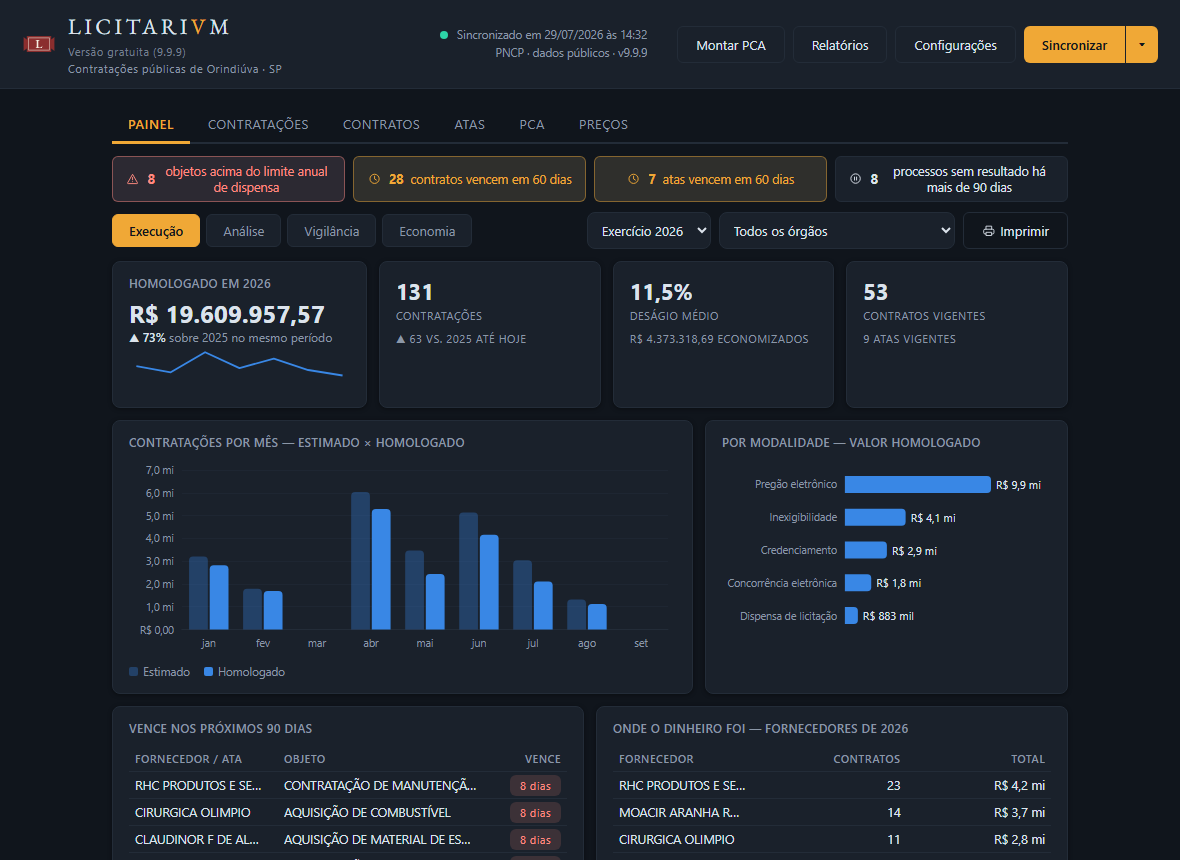
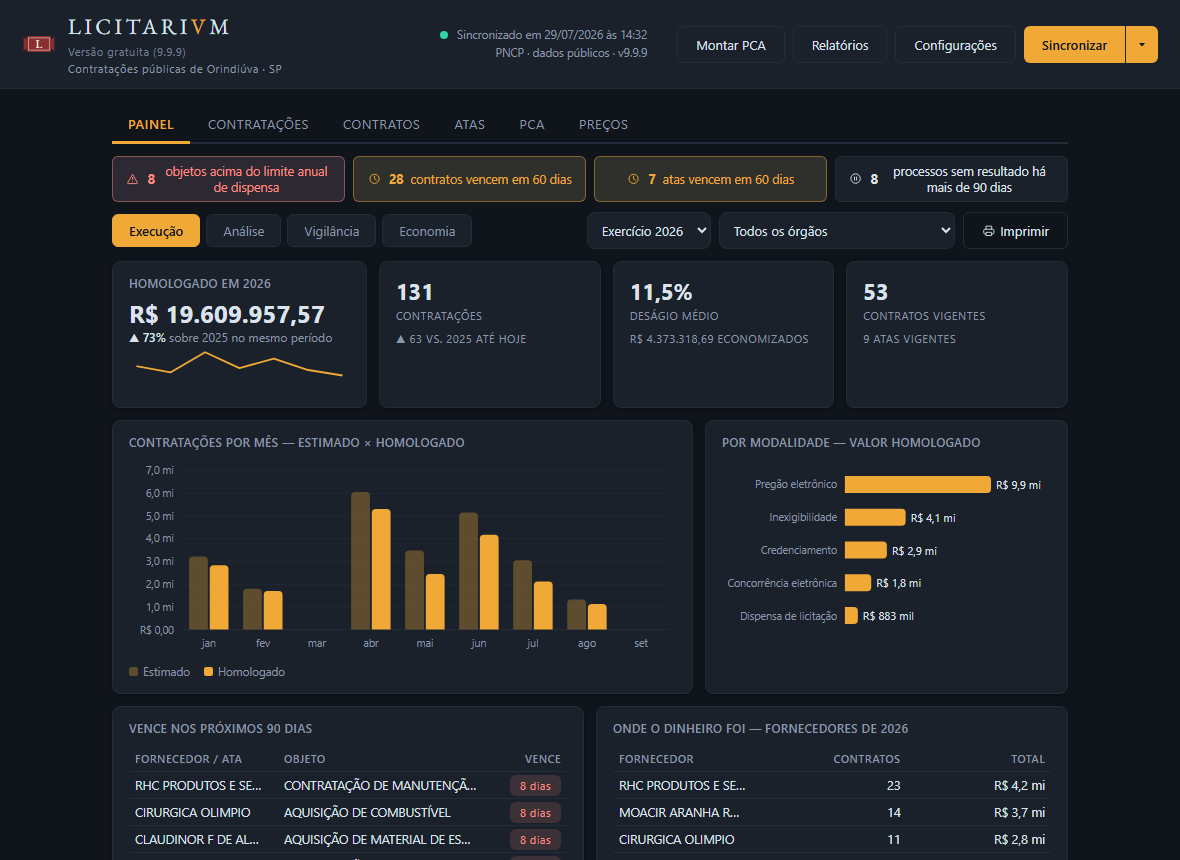
feat: cor de série dos gráficos (--s1) unificada com --accent do tema (v1.52.6)
--s1 tinha tom próprio por tema (pensado só pra daltonismo/contraste),
independente de --accent (cor de destaque da interface). Em 3 dos 4
temas coincidiam por acaso; no Observatório não (série azul, destaque
em âmbar), deixando o mesmo gráfico visualmente fora do tema. --s1
agora é sempre var(--accent), nos 4 temas -- pedido do usuário.
--s2..--s4 (séries secundárias) continuam com tom próprio.

diff --git a/MANUAL.html b/MANUAL.html
@@ -2,11 +2,11 @@
 <html lang="pt-BR">
 <head>
 <meta charset="utf-8">
-<title>Manual Operacional — Licitarium Free v1.52.5</title>
+<title>Manual Operacional — Licitarium Free v1.52.6</title>
 <style>
   @page {
     size: A4; margin: 2cm 1.8cm;
-    @top-center { content: "Licitarium Free v1.52.5 — Manual Operacional"; font-size: 9pt; color: #6f5b3e; }
+    @top-center { content: "Licitarium Free v1.52.6 — Manual Operacional"; font-size: 9pt; color: #6f5b3e; }
     @bottom-right { content: "Página " counter(page) " de " counter(pages);
                     font-size: 9pt; color: #6f5b3e; }
   }
@@ -155,7 +155,7 @@
     <path d="M21.22 61.67Q21.16 61.67 21.12 61.65Q21.09 61.64 21.09 61.61Q21.09 61.58 21.13 61.56Q21.17 61.54 21.23 61.53Q21.35 61.5 21.42 61.41Q21.5 61.32 21.52 61.17Q21.57 60.82 21.61 60.47Q21.64 60.11 21.67 59.79Q21.7 59.47 21.71 59.22Q21.71 59.19 21.71 59.14Q21.71 59.1 21.71 59.06Q21.7 59.01 21.69 58.97Q21.67 58.93 21.62 58.89Q21.55 58.83 21.47 58.81Q21.4 58.78 21.3 58.76Q21.26 58.75 21.23 58.73Q21.2 58.7 21.2 58.67Q21.2 58.63 21.24 58.62Q21.28 58.61 21.34 58.61Q21.4 58.61 21.49 58.61Q21.59 58.62 21.71 58.63Q21.82 58.63 21.93 58.64Q22.03 58.64 22.1 58.64Q22.14 58.64 22.16 58.66Q22.19 58.69 22.2 58.72Q22.22 58.81 22.25 58.89Q22.27 58.98 22.31 59.07L23.02 60.84Q23.03 60.87 23.06 60.88Q23.09 60.88 23.11 60.85L23.93 59.08Q23.96 58.98 23.98 58.88Q24 58.78 24.02 58.71Q24.03 58.65 24.07 58.65H24.25Q24.41 58.64 24.59 58.63Q24.76 58.61 24.85 58.61Q24.89 58.61 24.92 58.62Q24.96 58.63 24.96 58.66Q24.96 58.7 24.93 58.71Q24.9 58.73 24.84 58.76Q24.79 58.77 24.73 58.8Q24.67 58.82 24.62 58.84Q24.55 58.88 24.51 58.93Q24.46 58.98 24.47 59.07Q24.47 59.4 24.48 59.67Q24.5 59.94 24.51 60.19Q24.52 60.43 24.54 60.68Q24.56 60.93 24.57 61.2Q24.58 61.34 24.67 61.41Q24.75 61.49 24.92 61.52Q24.98 61.54 25.02 61.56Q25.05 61.57 25.05 61.61Q25.05 61.64 25.02 61.65Q24.99 61.67 24.93 61.67Q24.82 61.67 24.72 61.66Q24.62 61.65 24.53 61.65Q24.43 61.64 24.33 61.64Q24.24 61.64 24.16 61.65Q24.08 61.65 23.99 61.66Q23.9 61.67 23.78 61.67Q23.73 61.67 23.7 61.65Q23.66 61.64 23.66 61.61Q23.66 61.58 23.7 61.55Q23.73 61.53 23.8 61.52Q23.95 61.5 24 61.43Q24.06 61.36 24.06 61.2Q24.05 60.88 24.04 60.61Q24.04 60.34 24.02 60.07Q24.01 59.8 24 59.51Q23.99 59.46 23.97 59.47Q23.95 59.47 23.93 59.51L22.93 61.66Q22.92 61.7 22.88 61.7Q22.84 61.69 22.83 61.66Q22.63 61.12 22.41 60.59Q22.19 60.07 21.95 59.5Q21.94 59.47 21.91 59.47Q21.89 59.47 21.88 59.51Q21.85 59.8 21.83 60.07Q21.8 60.34 21.79 60.61Q21.78 60.88 21.78 61.17Q21.78 61.3 21.86 61.39Q21.94 61.49 22.09 61.52Q22.16 61.54 22.2 61.55Q22.24 61.57 22.24 61.61Q22.24 61.64 22.2 61.65Q22.16 61.67 22.11 61.67Q21.99 61.67 21.92 61.66Q21.86 61.65 21.81 61.65Q21.75 61.65 21.66 61.65Q21.57 61.65 21.51 61.65Q21.44 61.66 21.37 61.66Q21.3 61.67 21.22 61.67ZM25.84 61.67Q25.78 61.67 25.75 61.65Q25.72 61.64 25.72 61.61Q25.72 61.58 25.75 61.56Q25.79 61.54 25.86 61.53Q25.97 61.5 26.05 61.41Q26.13 61.32 26.15 61.17Q26.19 60.82 26.23 60.47Q26.27 60.11 26.3 59.79Q26.32 59.47 26.33 59.22Q26.34 59.19 26.34 59.14Q26.34 59.1 26.33 59.06Q26.33 59.01 26.31 58.97Q26.3 58.93 26.25 58.89Q26.17 58.83 26.1 58.81Q26.03 58.78 25.93 58.76Q25.88 58.75 25.85 58.73Q25.82 58.7 25.82 58.67Q25.82 58.63 25.86 58.62Q25.91 58.61 25.97 58.61Q26.02 58.61 26.12 58.61Q26.22 58.62 26.33 58.63Q26.45 58.63 26.56 58.64Q26.66 58.64 26.73 58.64Q26.76 58.64 26.79 58.66Q26.82 58.69 26.82 58.72Q26.85 58.81 26.88 58.89Q26.9 58.98 26.93 59.07L27.65 60.84Q27.66 60.87 27.69 60.88Q27.72 60.88 27.73 60.85L28.56 59.08Q28.58 58.98 28.61 58.88Q28.63 58.78 28.64 58.71Q28.66 58.65 28.7 58.65H28.88Q29.04 58.64 29.21 58.63Q29.39 58.61 29.48 58.61Q29.51 58.61 29.55 58.62Q29.59 58.63 29.59 58.66Q29.59 58.7 29.56 58.71Q29.53 58.73 29.47 58.76Q29.42 58.77 29.36 58.8Q29.3 58.82 29.25 58.84Q29.17 58.88 29.13 58.93Q29.09 58.98 29.09 59.07Q29.1 59.4 29.11 59.67Q29.12 59.94 29.14 60.19Q29.15 60.43 29.17 60.68Q29.18 60.93 29.2 61.2Q29.21 61.34 29.3 61.41Q29.38 61.49 29.54 61.52Q29.61 61.54 29.65 61.56Q29.68 61.57 29.68 61.61Q29.68 61.64 29.65 61.65Q29.61 61.67 29.56 61.67Q29.44 61.67 29.34 61.66Q29.25 61.65 29.15 61.65Q29.06 61.64 28.96 61.64Q28.87 61.64 28.79 61.65Q28.71 61.65 28.62 61.66Q28.53 61.67 28.41 61.67Q28.36 61.67 28.32 61.65Q28.29 61.64 28.29 61.61Q28.29 61.58 28.32 61.55Q28.36 61.53 28.43 61.52Q28.57 61.5 28.63 61.43Q28.68 61.36 28.68 61.2Q28.68 60.88 28.67 60.61Q28.66 60.34 28.65 60.07Q28.64 59.8 28.63 59.51Q28.62 59.46 28.6 59.47Q28.58 59.47 28.56 59.51L27.56 61.66Q27.55 61.7 27.51 61.7Q27.47 61.69 27.46 61.66Q27.26 61.12 27.04 60.59Q26.82 60.07 26.58 59.5Q26.57 59.47 26.54 59.47Q26.52 59.47 26.51 59.51Q26.48 59.8 26.45 60.07Q26.43 60.34 26.42 60.61Q26.41 60.88 26.41 61.17Q26.41 61.3 26.49 61.39Q26.57 61.49 26.72 61.52Q26.79 61.54 26.83 61.55Q26.87 61.57 26.87 61.61Q26.87 61.64 26.83 61.65Q26.79 61.67 26.74 61.67Q26.61 61.67 26.55 61.66Q26.48 61.65 26.43 61.65Q26.38 61.65 26.29 61.65Q26.2 61.65 26.13 61.65Q26.07 61.66 26 61.66Q25.93 61.67 25.84 61.67ZM30.37 61.67Q30.31 61.67 30.27 61.66Q30.23 61.65 30.23 61.61Q30.23 61.58 30.27 61.56Q30.31 61.54 30.37 61.51Q30.46 61.49 30.57 61.44Q30.67 61.38 30.79 61.29Q30.9 61.2 31 61.07L31.58 60.35Q31.63 60.28 31.64 60.21Q31.66 60.14 31.59 60.05L30.96 59.16Q30.86 59.03 30.79 58.95Q30.71 58.87 30.63 58.83Q30.56 58.8 30.48 58.77Q30.41 58.75 30.37 58.73Q30.34 58.71 30.34 58.67Q30.34 58.64 30.37 58.63Q30.41 58.62 30.46 58.62Q30.61 58.62 30.81 58.63Q31.01 58.64 31.2 58.64Q31.34 58.64 31.47 58.63Q31.61 58.62 31.7 58.62Q31.75 58.62 31.79 58.64Q31.83 58.65 31.83 58.68Q31.83 58.72 31.79 58.74Q31.75 58.76 31.69 58.78Q31.56 58.81 31.5 58.84Q31.44 58.87 31.44 58.93Q31.44 59 31.56 59.18L31.99 59.77Q32.04 59.84 32.07 59.84Q32.1 59.84 32.14 59.78L32.59 59.18Q32.65 59.1 32.68 59.04Q32.71 58.98 32.71 58.93Q32.71 58.88 32.66 58.84Q32.61 58.8 32.5 58.78Q32.46 58.77 32.4 58.74Q32.35 58.72 32.35 58.68Q32.35 58.65 32.39 58.64Q32.43 58.63 32.49 58.63Q32.56 58.63 32.62 58.63Q32.68 58.63 32.74 58.63Q32.81 58.64 32.88 58.64Q33.02 58.64 33.15 58.62Q33.28 58.61 33.39 58.61Q33.45 58.61 33.49 58.62Q33.53 58.63 33.53 58.67Q33.53 58.7 33.49 58.72Q33.45 58.74 33.38 58.76Q33.26 58.79 33.12 58.93Q32.97 59.06 32.85 59.21L32.28 59.9Q32.22 59.97 32.21 60.01Q32.2 60.04 32.23 60.1L32.97 61.16Q33.06 61.29 33.18 61.39Q33.29 61.48 33.41 61.51Q33.48 61.53 33.52 61.55Q33.57 61.58 33.57 61.61Q33.57 61.64 33.53 61.66Q33.49 61.67 33.44 61.67Q33.33 61.67 33.21 61.66Q33.08 61.66 32.94 61.65Q32.81 61.64 32.69 61.64Q32.55 61.64 32.42 61.65Q32.29 61.65 32.19 61.65Q32.13 61.65 32.09 61.64Q32.05 61.62 32.05 61.59Q32.05 61.56 32.1 61.53Q32.15 61.51 32.2 61.5Q32.28 61.48 32.35 61.43Q32.42 61.38 32.42 61.29Q32.42 61.26 32.41 61.23Q32.4 61.19 32.37 61.16L31.89 60.45Q31.84 60.39 31.81 60.38Q31.78 60.38 31.75 60.43L31.19 61.17Q31.16 61.22 31.14 61.26Q31.13 61.3 31.13 61.33Q31.14 61.39 31.19 61.44Q31.25 61.49 31.34 61.51Q31.41 61.52 31.45 61.54Q31.49 61.57 31.49 61.6Q31.49 61.63 31.45 61.64Q31.42 61.66 31.36 61.66Q31.27 61.66 31.15 61.65Q31.03 61.65 30.92 61.65Q30.77 61.65 30.63 61.66Q30.49 61.67 30.37 61.67ZM34.14 61.67Q34.08 61.67 34.04 61.66Q34 61.65 34 61.61Q34 61.58 34.04 61.56Q34.08 61.54 34.14 61.51Q34.23 61.49 34.34 61.44Q34.44 61.38 34.56 61.29Q34.67 61.2 34.77 61.07L35.35 60.35Q35.4 60.28 35.41 60.21Q35.43 60.14 35.36 60.05L34.73 59.16Q34.63 59.03 34.56 58.95Q34.48 58.87 34.4 58.83Q34.33 58.8 34.25 58.77Q34.18 58.75 34.14 58.73Q34.11 58.71 34.11 58.67Q34.11 58.64 34.14 58.63Q34.18 58.62 34.23 58.62Q34.38 58.62 34.58 58.63Q34.78 58.64 34.97 58.64Q35.11 58.64 35.24 58.63Q35.38 58.62 35.47 58.62Q35.52 58.62 35.56 58.64Q35.6 58.65 35.6 58.68Q35.6 58.72 35.56 58.74Q35.52 58.76 35.46 58.78Q35.33 58.81 35.27 58.84Q35.21 58.87 35.21 58.93Q35.21 59 35.33 59.18L35.76 59.77Q35.81 59.84 35.84 59.84Q35.87 59.84 35.91 59.78L36.36 59.18Q36.42 59.1 36.45 59.04Q36.48 58.98 36.48 58.93Q36.48 58.88 36.43 58.84Q36.38 58.8 36.27 58.78Q36.23 58.77 36.18 58.74Q36.12 58.72 36.12 58.68Q36.12 58.65 36.16 58.64Q36.2 58.63 36.26 58.63Q36.33 58.63 36.39 58.63Q36.45 58.63 36.51 58.63Q36.58 58.64 36.65 58.64Q36.79 58.64 36.92 58.62Q37.05 58.61 37.16 58.61Q37.22 58.61 37.26 58.62Q37.3 58.63 37.3 58.67Q37.3 58.7 37.26 58.72Q37.22 58.74 37.15 58.76Q37.03 58.79 36.89 58.93Q36.74 59.06 36.62 59.21L36.05 59.9Q35.99 59.97 35.98 60.01Q35.97 60.04 36 60.1L36.74 61.16Q36.83 61.29 36.95 61.39Q37.06 61.48 37.18 61.51Q37.25 61.53 37.29 61.55Q37.34 61.58 37.34 61.61Q37.34 61.64 37.3 61.66Q37.26 61.67 37.21 61.67Q37.1 61.67 36.98 61.66Q36.85 61.66 36.71 61.65Q36.58 61.64 36.46 61.64Q36.32 61.64 36.19 61.65Q36.06 61.65 35.96 61.65Q35.9 61.65 35.86 61.64Q35.82 61.62 35.82 61.59Q35.82 61.56 35.87 61.53Q35.92 61.51 35.97 61.5Q36.05 61.48 36.12 61.43Q36.2 61.38 36.2 61.29Q36.2 61.26 36.18 61.23Q36.17 61.19 36.14 61.16L35.66 60.45Q35.61 60.39 35.58 60.38Q35.55 60.38 35.52 60.43L34.96 61.17Q34.93 61.22 34.91 61.26Q34.9 61.3 34.9 61.33Q34.91 61.39 34.96 61.44Q35.02 61.49 35.11 61.51Q35.18 61.52 35.22 61.54Q35.26 61.57 35.26 61.6Q35.26 61.63 35.22 61.64Q35.19 61.66 35.13 61.66Q35.04 61.66 34.92 61.65Q34.8 61.65 34.69 61.65Q34.54 61.65 34.4 61.66Q34.26 61.67 34.14 61.67ZM39.32 61.71Q39.27 61.71 39.25 61.66Q39.23 61.61 39.19 61.51Q39.16 61.41 39.13 61.34L38.26 59.11Q38.21 58.99 38.14 58.9Q38.06 58.81 37.93 58.78Q37.87 58.76 37.83 58.74Q37.79 58.71 37.79 58.68Q37.79 58.65 37.83 58.63Q37.86 58.62 37.92 58.62Q38 58.62 38.1 58.63Q38.2 58.63 38.31 58.63Q38.42 58.64 38.52 58.64Q38.61 58.64 38.72 58.63Q38.82 58.63 38.92 58.63Q39.02 58.62 39.08 58.62Q39.13 58.62 39.17 58.64Q39.21 58.65 39.21 58.68Q39.21 58.72 39.17 58.74Q39.13 58.77 39.07 58.78Q38.93 58.79 38.85 58.84Q38.78 58.88 38.78 58.96Q38.78 59.02 38.79 59.07Q38.81 59.12 38.82 59.15L39.46 60.88Q39.47 60.9 39.48 60.91Q39.5 60.91 39.51 60.87L40.11 59.3Q40.2 59.05 40.13 58.93Q40.06 58.8 39.89 58.78Q39.83 58.77 39.79 58.74Q39.74 58.72 39.74 58.68Q39.74 58.65 39.78 58.64Q39.82 58.63 39.88 58.63Q39.95 58.63 40.02 58.63Q40.09 58.63 40.17 58.63Q40.24 58.64 40.33 58.64Q40.47 58.64 40.61 58.63Q40.75 58.62 40.85 58.62Q40.91 58.62 40.95 58.63Q40.99 58.64 40.99 58.68Q40.99 58.71 40.95 58.73Q40.91 58.75 40.84 58.77Q40.68 58.81 40.58 58.92Q40.47 59.04 40.41 59.19L39.59 61.15Q39.56 61.23 39.52 61.32Q39.49 61.41 39.45 61.5Q39.42 61.59 39.38 61.66Q39.38 61.69 39.36 61.7Q39.34 61.71 39.32 61.71ZM41.59 61.67Q41.54 61.67 41.51 61.65Q41.47 61.64 41.47 61.61Q41.47 61.55 41.61 61.52Q41.78 61.49 41.87 61.42Q41.95 61.35 41.95 61.19V59.1Q41.95 58.94 41.89 58.87Q41.82 58.81 41.64 58.77Q41.51 58.75 41.51 58.68Q41.51 58.65 41.54 58.63Q41.58 58.62 41.63 58.62Q41.75 58.62 41.84 58.63Q41.93 58.63 42.02 58.63Q42.11 58.64 42.21 58.64Q42.31 58.64 42.4 58.63Q42.48 58.63 42.57 58.63Q42.66 58.62 42.78 58.62Q42.83 58.62 42.86 58.63Q42.9 58.65 42.9 58.68Q42.9 58.71 42.86 58.74Q42.83 58.76 42.76 58.77Q42.59 58.81 42.51 58.88Q42.44 58.94 42.44 59.1V61.19Q42.44 61.35 42.53 61.42Q42.61 61.48 42.79 61.52Q42.86 61.54 42.89 61.56Q42.92 61.57 42.92 61.61Q42.92 61.64 42.89 61.65Q42.86 61.67 42.81 61.67Q42.69 61.67 42.59 61.66Q42.5 61.65 42.41 61.65Q42.32 61.64 42.21 61.64Q42.1 61.64 42.01 61.65Q41.91 61.65 41.81 61.66Q41.71 61.67 41.59 61.67Z" fill="var(--text)" opacity=".85"/>
   </svg>
   <h1 class="mark">LICITARI<b>V</b>M</h1>
-  <div class="subtitulo">MANUAL DO USUÁRIO · VERSÃO 1.52.5</div>
+  <div class="subtitulo">MANUAL DO USUÁRIO · VERSÃO 1.52.6</div>
 </header>
 
 <h2>1. O que é o Licitarium</h2>

diff --git a/ui/estilo.css b/ui/estilo.css
@@ -569,10 +569,15 @@ details.raw pre { background:var(--surface2); border-radius:var(--radius);
 
 /* ══ Painel: subabas, cartões e gráficos ══
    Os gráficos são SVG desenhado no próprio app — sem biblioteca, sem rede.
-   As cores de série vêm daqui, e não do tema: foram validadas para daltonismo
-   e contraste sobre as superfícies clara e escura (ver design/DASHBOARD.md). */
+   `--s1` (série principal) é sempre `--accent` — pedido do usuário
+   (2026-09-08): antes tinha tom próprio por tema, pensado só pra
+   daltonismo/contraste, e no Observatório isso divergia visualmente do
+   resto da interface (série azul, botões/destaque em âmbar). `--s2..s4`
+   continuam com tom próprio — ainda precisam se distinguir entre si em
+   gráfico de mais de uma série (validados para daltonismo e contraste
+   sobre as superfícies clara e escura, ver design/DASHBOARD.md). */
 :root, [data-theme="portal"] {
-  --s1:#2a78d6; --s2:#eb6834; --s3:#1baf7a; --s4:#eda100;
+  --s1:var(--accent); --s2:#eb6834; --s3:#1baf7a; --s4:#eda100;
   --seq1:#cde2fb; --seq2:#9ec5f4; --seq3:#5598e7; --seq4:#2571c9; --seq5:#1c5cab;
   /* Tinta do número dentro da célula do mapa de calor. Vai por degrau,
      não por tema: a rampa do Observatório é INVERTIDA (seq1 escuro,
@@ -585,27 +590,27 @@ details.raw pre { background:var(--surface2); border-radius:var(--radius);
    superfície #fbf7ee — terracota, ocre, verde e ardósia. A ardósia é fria de
    propósito; sem ela, quatro tons quentes não se separam sob daltonismo. */
 [data-theme="pergaminho"] {
-  --s1:#a03521; --s2:#c98a00; --s3:#1f8a52; --s4:#3f5fa8;
+  --s1:var(--accent); --s2:#c98a00; --s3:#1f8a52; --s4:#3f5fa8;
   --seq1:#f0e2c6; --seq2:#ddc294; --seq3:#c19d5c; --seq4:#96702c; --seq5:#5d4415;
   --seq1-ink:#141414; --seq2-ink:#141414; --seq3-ink:#141414;
   --seq4-ink:#ffffff; --seq5-ink:#ffffff;
 }
 [data-theme="observatorio"] {
-  --s1:#3987e5; --s2:#d95926; --s3:#199e70; --s4:#c98500;
+  --s1:var(--accent); --s2:#d95926; --s3:#199e70; --s4:#c98500;
   /* degraus mais espaçados que os do tema claro: sobre fundo escuro, dois
      azuis próximos viram a mesma cor e o mapa de calor deixa de informar */
   --seq1:#123a6e; --seq2:#1c5cab; --seq3:#2571c9; --seq4:#5598e7; --seq5:#b7d3f6;
   --seq1-ink:#ffffff; --seq2-ink:#ffffff; --seq3-ink:#ffffff;
   --seq4-ink:#141414; --seq5-ink:#141414;
 }
-/* Civil: série em verde (s1, a cor de acento) + laranja/azul/dourado pra
-   separar sob daltonismo — validada pelo script de seis checks da skill
-   dataviz contra a superfície #ffffff (2026-08-13): banda de luminosidade,
-   piso de croma, separação CVD (pior par ΔE 8,3 protan), piso de visão
-   normal e contraste — todas passam. Rampa sequencial de um hue só
-   (verde), degraus validados por monotonicidade/gap/faixa de matiz. */
+/* Civil: série em verde (s1 = accent) + laranja/azul/dourado pra separar
+   sob daltonismo — validada pelo script de seis checks da skill dataviz
+   contra a superfície #ffffff (2026-08-13): banda de luminosidade, piso
+   de croma, separação CVD (pior par ΔE 8,3 protan), piso de visão normal
+   e contraste — todas passam. Rampa sequencial de um hue só (verde),
+   degraus validados por monotonicidade/gap/faixa de matiz. */
 [data-theme="civil"] {
-  --s1:#1b7a4d; --s2:#c97a2e; --s3:#2e6fa8; --s4:#a88a1f;
+  --s1:var(--accent); --s2:#c97a2e; --s3:#2e6fa8; --s4:#a88a1f;
   --seq1:#8fcfad; --seq2:#6bb98d; --seq3:#4a9c6d; --seq4:#1b7a4d; --seq5:#0d4028;
   --seq1-ink:#141414; --seq2-ink:#141414; --seq3-ink:#141414;
   --seq4-ink:#ffffff; --seq5-ink:#ffffff;

diff --git a/tests-e2e/app.spec.js b/tests-e2e/app.spec.js
@@ -238,6 +238,25 @@ test("tema troca via configurações e persiste via set_config",
   expect(salvo.v).toBe("observatorio");
 });
 
+test("--s1 (série principal dos gráficos) é sempre --accent, nos 4 temas",
+    async ({ page }) => {
+  // pedido do usuário (2026-09-08): antes cada tema tinha um tom próprio
+  // pra --s1, pensado só pra daltonismo/contraste — no Observatório isso
+  // divergia visualmente do resto da interface (série azul, destaque em
+  // âmbar). Unificado: --s1 é sempre var(--accent).
+  for (const tema of ["portal", "pergaminho", "observatorio", "civil"]) {
+    await page.evaluate(t => {
+      document.documentElement.dataset.theme = t;
+    }, tema);
+    const [s1, accent] = await page.evaluate(() => {
+      const cs = getComputedStyle(document.documentElement);
+      return [cs.getPropertyValue("--s1").trim(),
+              cs.getPropertyValue("--accent").trim()];
+    });
+    expect(s1, `tema ${tema}`).toBe(accent);
+  }
+});
+
 test("trocar de tema redesenha os gráficos da tela atual", async ({ page }) => {
   // achado do usuário (2026-09-08): os gráficos ECharts leem a cor do
   // tema (--s1/--accent/...) só no instante em que desenham — sem

diff --git a/licitarium.py b/licitarium.py
@@ -27,7 +27,7 @@ import pca_builder
 import pncp
 import relatorios
 
-VERSAO = "1.52.5"
+VERSAO = "1.52.6"
 # dentro do exe onefile os arquivos ficam na pasta temporária do bundle;
 # _MEIPASS é o caminho oficial para chegar até eles
 DIR_APP = Path(getattr(sys, "_MEIPASS", Path(__file__).resolve().parent))

diff --git a/CHANGELOG.md b/CHANGELOG.md
@@ -1,5 +1,20 @@
 # Changelog
 
+## 1.52.6 — 2026-09-08
+
+**Cor de série dos gráficos unificada com a cor de destaque do tema**
+
+- `--s1` (a série principal de todo gráfico — barra por ano, boxplot,
+  série temporal, comparativo por município etc.) tinha um tom próprio
+  por tema, pensado só pra daltonismo/contraste, independente de
+  `--accent` (a cor de destaque da interface — botões, aba ativa). Em 3
+  dos 4 temas os dois coincidiam por acaso; no Observatório não (série
+  azul, destaque em âmbar), o que fazia o mesmo gráfico parecer "fora do
+  tema" ali. `--s1` agora é sempre `--accent`, nos 4 temas — pedido do
+  usuário. `--s2..--s4` (séries secundárias, quando o gráfico tem mais
+  de uma) continuam com tom próprio, ainda precisam se distinguir entre
+  si.
+
 ## 1.52.5 — 2026-09-08
 
 **Aviso de volume ao adicionar município de referência**
